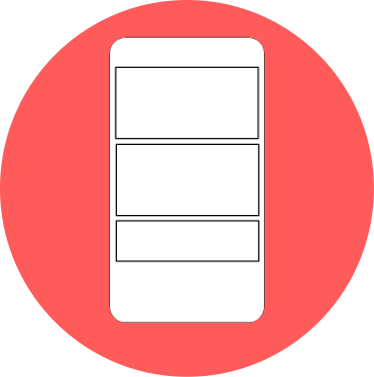
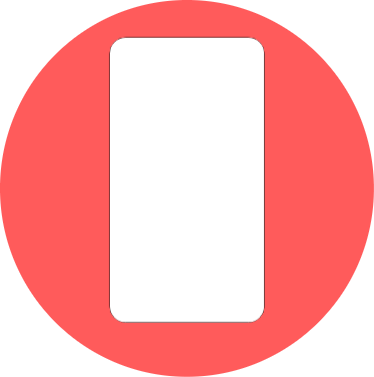
[css 4]

Changed region(s): [[0.2941, 0.1751, 0.7059, 0.7003]]

diff --git a/front-client-ql/src/App.css b/front-client-ql/src/App.css
@@ -8,10 +8,22 @@
 }
 
 .App-header {
-  background-color: #222;
-  height: 150px;
-  padding: 20px;
+  background-color: rgb(21, 19, 56); /* bleu foncé*/
+  height: 40px;
+  padding-top: 10px;
   color: white;
+}
+
+#App-subheader {
+  float: left;
+  padding-left: 20px;
+  margin-top: 0px;
+  font-style: italic;
+}
+
+#App-footer {
+  height: 100px;
+  background-color: rgb(21, 19, 56);
 }
 
 .App-title {
@@ -43,6 +55,52 @@
 }
 
 /**/
+#wrapped_home_selector{
+  position: relative;
+  margin: auto;
+  width: 400px;
+  height: 400px;
+}
+
+/* ################# */
+.center_selector{
+  width: 140px;
+  position: absolute;
+  left: 50%;
+  transform: translate3d(-50%,-50%,0);
+  border-style: solid;
+  border-width: 1px;
+}
+
+#tesst_0{
+  height: 80px;
+  top: 130px;
+}
+
+#tesst_0:hover{
+  background-color: rgba(255, 255, 0, 0.2);
+}
+
+#tesst_1{
+  height: 70px;
+  top: 210px;
+}
+
+#tesst_1:hover{
+  background-color: rgba(0, 0, 255, 0.2);
+}
+
+#tesst_2{
+  height: 40px;
+  top: 270px;
+}
+
+#tesst_2:hover{
+  background-color: rgba(255, 0, 0, 0.2);
+}
+
+/* ################# */
+
 .dragAndDropArea{
   height: 200px;
   background-color: gray;
@@ -63,7 +121,8 @@
 }
 
 #scroller-wrapper {
-    width: 100%;
+    width: 95%;
+    margin: auto;
 }
 
 #scroller {

diff --git a/front-client-ql/src/Pma/PmaSelector.js b/front-client-ql/src/Pma/PmaSelector.js
@@ -20,12 +20,11 @@ export class PmaSelector extends React.Component{
 
   render() {
       return (
-        <div>
-            <img src="smartphone_cat.png" alt="Mountain View" onClick={this.test}/>
-
-            <a className="waves-effect waves-light btn" onClick={this.props.onSelection.bind(this, Pmatype1)}>button</a>
-            <a className="waves-effect waves-light btn" onClick={this.props.onSelection.bind(this, Pmatype2)}><i className="material-icons left">cloud</i>button</a>
-            <a className="waves-effect waves-light btn" onClick={this.props.onSelection.bind(this, "pma_2")}><i className="material-icons right">cloud</i>button</a>
+        <div id="wrapped_home_selector" className="center-align">
+            <div id="tesst_0" className="center_selector hoverable" onClick={this.props.onSelection.bind(this, Pmatype1)}/>
+            <div id="tesst_1" className="center_selector hoverable" onClick={this.props.onSelection.bind(this, Pmatype2)}/>
+            <div id="tesst_2" className="center_selector hoverable" onClick={this.props.onSelection.bind(this, "pma_2")}/>
+            <img src={require('../static/smartphone_cat.png')} alt="Mountain View" onClick={this.test}/>
         </div>
       );
     }

diff --git a/front-client-ql/src/App.js b/front-client-ql/src/App.js
@@ -22,14 +22,19 @@ class App extends Component {
   render() {
     return (
       <div className="App">
-        <header className="App-header"></header>
+        <header className="App-header">
+          <p id="App-subheader">Kiabi pma Admin</p>
+        </header>
         <p className="App-intro"></p>
+        <img src={require('./static/Kiabi-logo.png')} alt="kiabilogo" width="200px"/>
         <PmaSelector
           onSelection = {this.onSelection}
         />
         <PmaCollectionManager
           ref = {(pmaCollection) => { this.pmaCollection = pmaCollection}}
         />
+        <footer id="App-footer">
+        </footer>
       </div>
     );
   }
